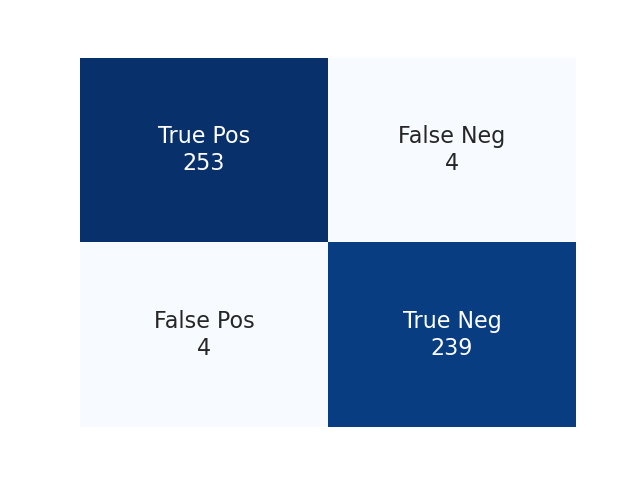
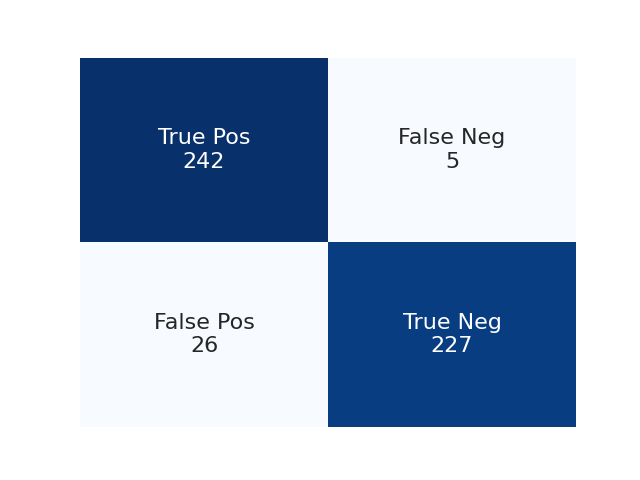
Finalization

diff --git a/latex/paper/appendix/b_model_card_future_model.tex b/latex/paper/appendix/b_model_card_future_model.tex
@@ -71,7 +71,7 @@ The remaining 500 will be used to test the final distilbert-base-future model
     \centering
     \includegraphics[width=0.5\textwidth]{cm}
     \caption{
-        \highlight{Dummy caption}.
+        Confusion matrix after applying the test set with the resulting accuracy of 93,8\%.
     }
     \label{fig:cm}
 \end{figure}
